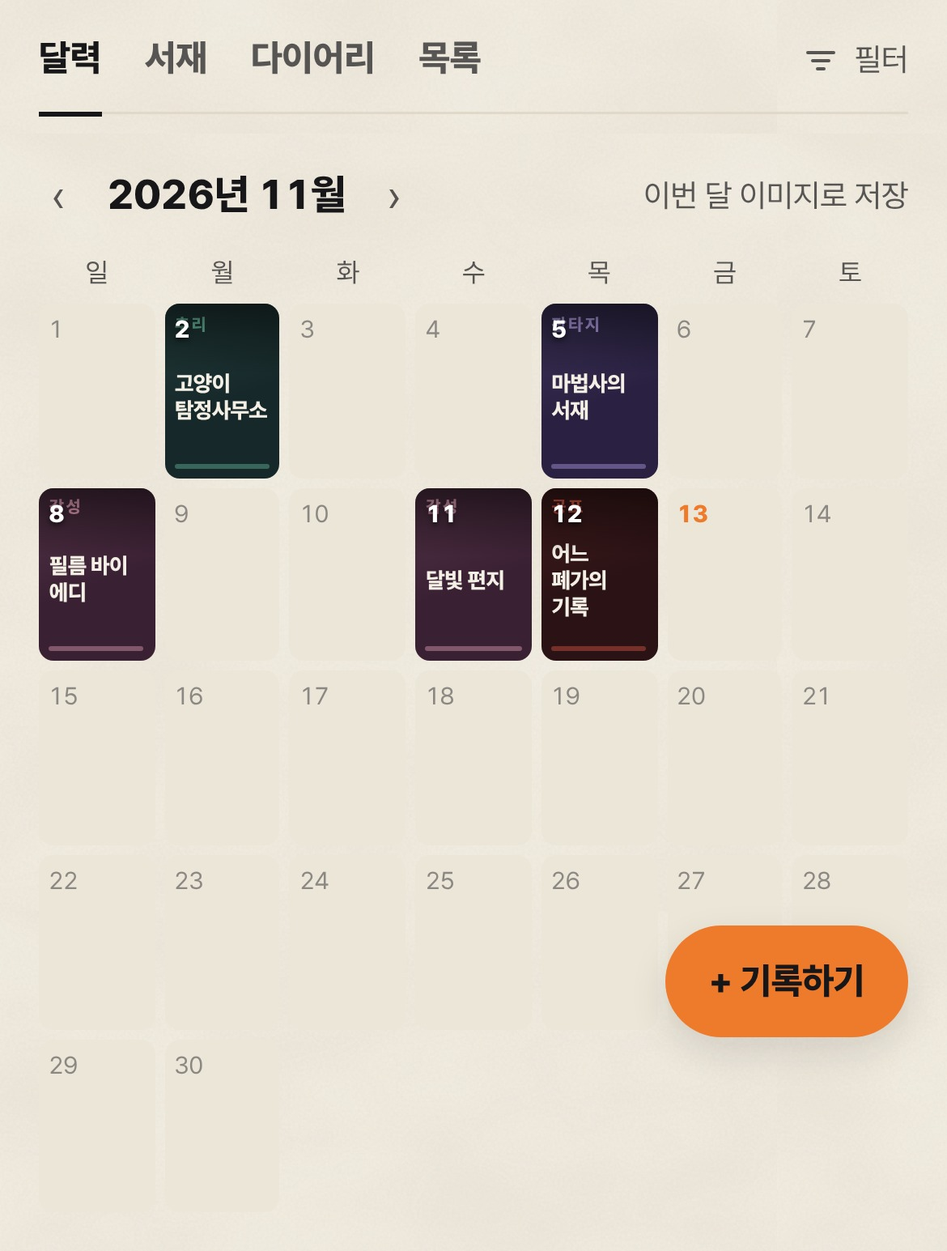
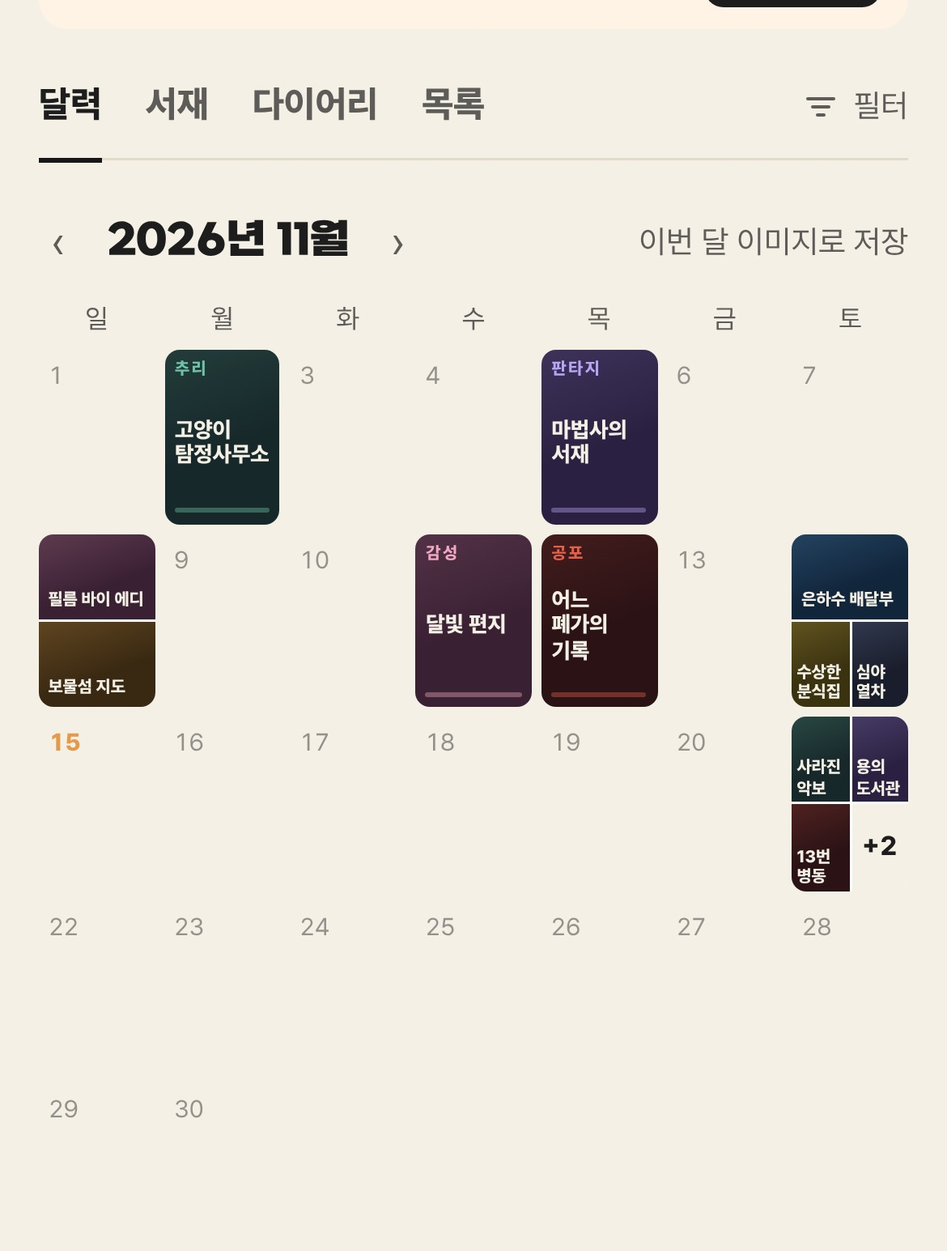
달력 소개 맞추기(다이어리 페이지 예시·월간 이미지 칸 나누기·IG 소개 카드), IG 후킹: 저장 문구·첫 방탈출 체크리스트 캐러셀
Claude-Session: https://claude.ai/code/session_01RCovqCTjag3WJkZFny7UQu

diff --git a/app/diary/page.tsx b/app/diary/page.tsx
@@ -1,5 +1,5 @@
 import type { Metadata } from "next";
-import PosterTile from "@/components/PosterTile";
+import PosterTile, { TONE } from "@/components/PosterTile";
 import Link from "next/link";
 import { SITE_NAME, SITE_URL } from "@/lib/site";
 
@@ -35,7 +35,7 @@ export const metadata: Metadata = {
 };
 
 // 달력 예시 한 주 (실제 사용자 데이터 아님)
-type CalCell = { day: number; genre?: string; name?: string; success?: boolean; more?: number };
+type CalCell = { day: number; genre?: string; name?: string; success?: boolean; also?: { genre: string; name: string }[] };
 const CAL_SAMPLE: CalCell[] = [
   ...[2, 3, 4, 5, 6, 7].map((day) => ({ day })),
   { day: 8, genre: "추리", name: "고양이 탐정 사무소", success: false },
@@ -44,7 +44,7 @@ const CAL_SAMPLE: CalCell[] = [
   ...[16, 17, 18].map((day) => ({ day })),
   { day: 19, genre: "감성", name: "달빛 편지", success: true },
   { day: 20 },
-  { day: 21, genre: "판타지", name: "마법사의 서재", success: true, more: 1 },
+  { day: 21, genre: "판타지", name: "마법사의 서재", success: true, also: [{ genre: "모험", name: "보물섬 지도" }, { genre: "코믹", name: "수상한 분식집" }] },
   { day: 22, genre: "공포", name: "어느 폐가의 기록", success: true },
 ];
 
@@ -114,7 +114,7 @@ const FAQ = [
   },
   {
     q: "달력으로도 볼 수 있나요?",
-    a: "네. 기록하면 다녀온 날짜 칸이 테마 포스터로 채워지는 달력이 기본 화면이에요. 인증샷을 올리면 그 사진으로 채워지고, 하루에 여러 방을 했으면 +2처럼 표시돼요. 날짜를 누르면 그날 기록이 바로 펼쳐져요.",
+    a: "네. 기록하면 다녀온 날짜 칸이 테마 포스터로 채워지는 달력이 기본 화면이에요. 인증샷을 올리면 그 사진으로 채워지고, 하루에 여러 방을 했으면 칸을 나눠서 다 보여 주고, 4방부터는 +1처럼 표시돼요. 날짜를 누르면 그날 기록이 바로 펼쳐져요.",
   },
   {
     q: "몇 번째 방인지 자동으로 세 주나요?",
@@ -204,11 +204,11 @@ export default function DiaryLandingPage() {
         <h2 className="text-xl font-extrabold">📅 달력으로 한눈에</h2>
         <p className="text-sm text-cream/60">
           예시 화면이에요. 다녀온 날짜 칸이 테마 포스터(또는 내 인증샷)로
-          채워져서, 이번 달 얼마나 달렸는지 한눈에 보여요.
+          채워지고, 하루에 여러 방을 한 날은 칸이 나뉘어 담겨요.
         </p>
         <div className="rough mx-auto max-w-sm rounded-2xl border-2 border-edge bg-panel p-3">
           <p className="mb-2 text-center text-sm font-extrabold">
-            11월 <span className="text-xs font-bold text-cream/55">· 6방 · 탈출 5</span>
+            11월 <span className="text-xs font-bold text-cream/55">· 7방 · 탈출 6</span>
           </p>
           <div className="grid grid-cols-7 gap-1.5 text-center text-[11px] font-extrabold">
             {["일", "월", "화", "수", "목", "금", "토"].map((w) => (
@@ -220,14 +220,24 @@ export default function DiaryLandingPage() {
               <div key={c.day} className="flex flex-col gap-1">
                 <span className={c.name ? "text-cream" : "text-cream/35"}>{c.day}</span>
                 {c.name ? (
-                  <span className="relative block aspect-[3/4] overflow-hidden rounded-md shadow-sm ring-1 ring-edge/20">
-                    <PosterTile genre={c.genre ?? "기타"} name={c.name} success={c.success} />
-                    {c.more && (
-                      <span className="absolute bottom-1 right-1 rounded-full bg-panel/90 px-1 text-[9px] font-extrabold leading-3 text-edge">
-                        +{c.more}
-                      </span>
-                    )}
-                  </span>
+                  c.also ? (
+                    // 하루 여러 방: 실제 달력처럼 칸을 나눠 담는다
+                    <span className="grid aspect-[3/4] grid-cols-2 grid-rows-2 gap-px overflow-hidden rounded-md shadow-sm ring-1 ring-edge/20">
+                      {[{ genre: c.genre ?? "기타", name: c.name }, ...c.also].map((t, k) => (
+                        <span
+                          key={t.name}
+                          className={`flex items-end p-[3px] text-left text-[7px] font-extrabold leading-[1.1] text-[#F5F0E6] ${k === 0 ? "col-span-2" : ""}`}
+                          style={{ backgroundColor: (TONE[t.genre] ?? TONE["기타"]).bg }}
+                        >
+                          <span className="line-clamp-2 [word-break:keep-all]">{t.name}</span>
+                        </span>
+                      ))}
+                    </span>
+                  ) : (
+                    <span className="relative block aspect-[3/4] overflow-hidden rounded-md shadow-sm ring-1 ring-edge/20">
+                      <PosterTile genre={c.genre ?? "기타"} name={c.name} success={c.success} />
+                    </span>
+                  )
                 ) : (
                   <span className="block aspect-[3/4]" />
                 )}

diff --git a/tools/ig/templates/im6.html b/tools/ig/templates/im6.html
@@ -17,4 +17,4 @@ body:after{content:"";position:absolute;inset:0;opacity:.16;mix-blend-mode:overl
 .row .p{font-size:24px;font-weight:500;opacity:.75;margin-top:6px;letter-spacing:.02em}
 .row .d{font-size:26px;font-weight:800;margin-top:10px;color:#F2C879}
 .foot{left:80px;right:80px;bottom:66px;display:flex;justify-content:space-between;font-size:21px;opacity:.6;letter-spacing:.05em}
-</style></head><body><div class="a top"><span>BANGTALLOG · PROGRAM</span><span>6 / 6</span></div><div class="a kick">BEFORE THE CURTAIN</div><div class="a ttl" style="font-size:66px">티켓팅,<br><em>장난 아니래요</em></div><div class="a" style="left:80px;right:80px;top:390px"><div class="row" style="padding:16px 0"><div class="n" style="width:60px">01</div><div><div class="t" style="font-size:32px">열리는 시각부터</div><div class="p" style="font-size:22px">곳마다 며칠 전 몇 시에 열리는지 달라요</div></div></div><div class="row" style="padding:16px 0"><div class="n" style="width:60px">02</div><div><div class="t" style="font-size:32px">로그인·결제는 미리</div><div class="p" style="font-size:22px">무통장이면 예약자 = 입금자 이름</div></div></div><div class="row" style="padding:16px 0"><div class="n" style="width:60px">03</div><div><div class="t" style="font-size:32px">날짜 후보는 2~3개</div><div class="p" style="font-size:22px">한 회차에 몇 명만 들어가요</div></div></div><div class="row" style="padding:16px 0"><div class="n" style="width:60px">04</div><div><div class="t" style="font-size:32px">취소표는 수수료 붙기 직전</div><div class="p" style="font-size:22px">그 무렵 예약 페이지를 몇 번 더</div></div></div><div class="row" style="padding:16px 0"><div class="n" style="width:60px">05</div><div><div class="t" style="font-size:32px">10분 일찍</div><div class="p" style="font-size:22px">늦으면 못 들어가는 곳이 많아요</div></div></div></div><div class="a" style="left:80px;right:80px;top:1110px;font-family:M;font-weight:800;font-size:34px;line-height:1.5">곳마다 예약 열리는 시각은 <span style="color:#D9574F">프로필 링크</span>에.<br><span style="font-family:P;font-size:24px;opacity:.75;font-weight:500">다녀온 공연도 방탈로그에 한 줄 · 먼저 써 보고 10초 가입</span></div><div class="a foot"><span>CURTAIN CALL</span><span>bangtallog.com</span></div></body></html>
+</style></head><body><div class="a top"><span>BANGTALLOG · PROGRAM</span><span>6 / 6</span></div><div class="a kick">BEFORE THE CURTAIN</div><div class="a ttl" style="font-size:66px">티켓팅,<br><em>장난 아니래요</em></div><div class="a" style="left:80px;right:80px;top:390px"><div class="row" style="padding:16px 0"><div class="n" style="width:60px">01</div><div><div class="t" style="font-size:32px">열리는 시각부터</div><div class="p" style="font-size:22px">곳마다 며칠 전 몇 시에 열리는지 달라요</div></div></div><div class="row" style="padding:16px 0"><div class="n" style="width:60px">02</div><div><div class="t" style="font-size:32px">로그인·결제는 미리</div><div class="p" style="font-size:22px">무통장이면 예약자 = 입금자 이름</div></div></div><div class="row" style="padding:16px 0"><div class="n" style="width:60px">03</div><div><div class="t" style="font-size:32px">날짜 후보는 2~3개</div><div class="p" style="font-size:22px">한 회차에 몇 명만 들어가요</div></div></div><div class="row" style="padding:16px 0"><div class="n" style="width:60px">04</div><div><div class="t" style="font-size:32px">취소표는 수수료 붙기 직전</div><div class="p" style="font-size:22px">그 무렵 예약 페이지를 몇 번 더</div></div></div><div class="row" style="padding:16px 0"><div class="n" style="width:60px">05</div><div><div class="t" style="font-size:32px">10분 일찍</div><div class="p" style="font-size:22px">늦으면 못 들어가는 곳이 많아요</div></div></div></div><div class="a" style="left:80px;right:80px;top:1110px;font-family:M;font-weight:800;font-size:34px;line-height:1.5">곳마다 예약 열리는 시각은 <span style="color:#D9574F">프로필 링크</span>에.<br><span style="font-family:P;font-size:24px;opacity:.75;font-weight:500">📌 저장해 두고 티켓팅 날 꺼내 보세요 · 먼저 써 보고 10초 가입</span></div><div class="a foot"><span>CURTAIN CALL</span><span>bangtallog.com</span></div></body></html>

diff --git a/tools/ig/templates/ck5.html b/tools/ig/templates/ck5.html
@@ -1,0 +1,31 @@
+<!doctype html><html><head><meta charset="utf-8"><style>
+@font-face{font-family:A;src:url(../../../assets/fonts/SBAggroB.woff)}
+@font-face{font-family:P;src:url(../../../assets/fonts/Pretendard-ExtraBold.woff);font-weight:800}
+@font-face{font-family:P;src:url(../../../assets/fonts/Pretendard-Medium.woff);font-weight:500}
+html,body{margin:0;width:1080px;height:1350px;font-family:P;overflow:hidden;color:#1D1D1D;background:#F5F0E6}
+.dots{position:absolute;inset:0;background-image:radial-gradient(rgba(29,29,29,.06) 1.5px,transparent 1.6px);background-size:28px 28px}
+.top{position:absolute;left:80px;right:80px;top:70px;display:flex;justify-content:space-between;align-items:center}
+.brand{font-family:A;font-size:32px}
+.pg{border:3px solid #1D1D1D;border-radius:999px;background:#FFFCF6;padding:6px 18px;font-weight:800;font-size:24px}
+.kick{position:absolute;left:80px;top:170px;font-weight:800;font-size:30px;color:#C97A28}
+h1{position:absolute;left:76px;right:76px;font-family:A;font-weight:400;margin:0;line-height:1.14}
+.acc{color:#E49A4A;text-shadow:5px 5px 0 #1D1D1D}
+.card{position:absolute;left:80px;right:80px;background:#FFFCF6;border:4px solid #1D1D1D;border-radius:30px;box-shadow:9px 9px 0 #1D1D1D;padding:20px 40px}
+.li{display:flex;gap:26px;align-items:flex-start;padding:26px 0;border-bottom:3px dashed rgba(29,29,29,.15)}
+.li:last-child{border-bottom:0}
+.box{flex:0 0 58px;height:58px;border:4px solid #1D1D1D;border-radius:14px;background:#fff;box-shadow:3px 4px 0 #1D1D1D;margin-top:4px;font-size:40px;line-height:54px;text-align:center;color:#E49A4A;font-weight:800}
+.t{font-weight:800;font-size:42px;line-height:1.3}
+.d{font-weight:500;font-size:29px;line-height:1.45;color:#5A5148;margin-top:6px}
+.foot{position:absolute;left:80px;right:80px;bottom:64px;display:flex;justify-content:space-between;align-items:center}
+.cta{border:4px solid #1D1D1D;border-radius:18px;background:#E49A4A;color:#fff;font-weight:800;font-size:31px;padding:14px 28px;box-shadow:6px 6px 0 #1D1D1D}
+.url{font-family:A;font-size:26px}
+.sticker{position:absolute;border:3px solid #1D1D1D;border-radius:999px;background:#FFFCF6;padding:10px 24px;font-weight:800;font-size:28px;box-shadow:4px 4px 0 #1D1D1D}
+</style></head><body><div class="dots"></div>
+<div class="top"><span class="brand">방탈로그</span><span class="pg">5 / 5</span></div><div class="kick">📌 저장해 두기</div>
+<h1 style="top:230px;font-size:92px">나와서 할 일,<br><span class="acc">딱 하나</span></h1>
+<div style="position:absolute;left:80px;right:80px;top:500px;font-weight:500;font-size:36px;line-height:1.55;color:#5A5148">스포는 꾹 참고, <b style="color:#1D1D1D;font-weight:800">그날 한 줄</b>만 적어 두세요.<br>며칠 지나면 남은 시간도, 누구랑 갔는지도 가물가물해요.</div>
+<div class="card" style="top:760px;padding:34px 40px;transform:rotate(1.2deg)">
+<div class="t" style="font-size:38px">📒 다녀온 방 기록하면</div>
+<div class="d" style="font-size:31px;margin-top:14px">· 달력이 그날 방으로 채워지고<br>· 몇 번째 방인지 자동으로 세고<br>· 리뷰 시트 한 장으로 뽑을 수 있어요</div></div>
+<img src="../../../public/mascot.png" style="position:absolute;right:70px;top:580px;width:200px;transform:rotate(8deg)">
+<div class="foot"><span class="cta">먼저 써 보고 10초 가입 → 프로필 링크</span><span class="url">bangtallog.com</span></div></body></html>

diff --git a/tools/ig/templates/ck1.html b/tools/ig/templates/ck1.html
@@ -1,0 +1,32 @@
+<!doctype html><html><head><meta charset="utf-8"><style>
+@font-face{font-family:A;src:url(../../../assets/fonts/SBAggroB.woff)}
+@font-face{font-family:P;src:url(../../../assets/fonts/Pretendard-ExtraBold.woff);font-weight:800}
+@font-face{font-family:P;src:url(../../../assets/fonts/Pretendard-Medium.woff);font-weight:500}
+html,body{margin:0;width:1080px;height:1350px;font-family:P;overflow:hidden;color:#1D1D1D;background:#F5F0E6}
+.dots{position:absolute;inset:0;background-image:radial-gradient(rgba(29,29,29,.06) 1.5px,transparent 1.6px);background-size:28px 28px}
+.top{position:absolute;left:80px;right:80px;top:70px;display:flex;justify-content:space-between;align-items:center}
+.brand{font-family:A;font-size:32px}
+.pg{border:3px solid #1D1D1D;border-radius:999px;background:#FFFCF6;padding:6px 18px;font-weight:800;font-size:24px}
+.kick{position:absolute;left:80px;top:170px;font-weight:800;font-size:30px;color:#C97A28}
+h1{position:absolute;left:76px;right:76px;font-family:A;font-weight:400;margin:0;line-height:1.14}
+.acc{color:#E49A4A;text-shadow:5px 5px 0 #1D1D1D}
+.card{position:absolute;left:80px;right:80px;background:#FFFCF6;border:4px solid #1D1D1D;border-radius:30px;box-shadow:9px 9px 0 #1D1D1D;padding:20px 40px}
+.li{display:flex;gap:26px;align-items:flex-start;padding:26px 0;border-bottom:3px dashed rgba(29,29,29,.15)}
+.li:last-child{border-bottom:0}
+.box{flex:0 0 58px;height:58px;border:4px solid #1D1D1D;border-radius:14px;background:#fff;box-shadow:3px 4px 0 #1D1D1D;margin-top:4px;font-size:40px;line-height:54px;text-align:center;color:#E49A4A;font-weight:800}
+.t{font-weight:800;font-size:42px;line-height:1.3}
+.d{font-weight:500;font-size:29px;line-height:1.45;color:#5A5148;margin-top:6px}
+.foot{position:absolute;left:80px;right:80px;bottom:64px;display:flex;justify-content:space-between;align-items:center}
+.cta{border:4px solid #1D1D1D;border-radius:18px;background:#E49A4A;color:#fff;font-weight:800;font-size:31px;padding:14px 28px;box-shadow:6px 6px 0 #1D1D1D}
+.url{font-family:A;font-size:26px}
+.sticker{position:absolute;border:3px solid #1D1D1D;border-radius:999px;background:#FFFCF6;padding:10px 24px;font-weight:800;font-size:28px;box-shadow:4px 4px 0 #1D1D1D}
+</style></head><body><div class="dots"></div>
+<div class="top"><span class="brand">방탈로그</span><span class="pg">1 / 5</span></div><div class="kick">☑ 첫 방탈출 체크리스트</div>
+<h1 style="top:230px;font-size:112px">방탈출,<br>처음이에요?</h1>
+<div style="position:absolute;left:80px;right:80px;top:520px;font-weight:500;font-size:36px;line-height:1.5;color:#5A5148">예약할 때부터 나올 때까지,<br>가기 전에 딱 <b style="color:#1D1D1D;font-weight:800">10가지</b>만 확인하고 가요.</div>
+<div class="card" style="top:720px;padding:34px 40px;transform:rotate(-1.5deg)">
+<div class="li" style="padding:14px 0"><div class="box">✓</div><div class="t">예약할 때 4가지</div></div>
+<div class="li" style="padding:14px 0"><div class="box">✓</div><div class="t">가는 날 3가지</div></div>
+<div class="li" style="padding:14px 0"><div class="box"></div><div class="t">방 안에서 3가지</div></div></div>
+<img src="../../../public/mascot.png" style="position:absolute;right:60px;top:560px;width:230px;transform:rotate(9deg)">
+<div class="foot"><span class="sticker" style="position:static">옆으로 넘겨요 →</span><span class="url">bangtallog.com</span></div></body></html>

diff --git a/lib/month-card.ts b/lib/month-card.ts
@@ -156,6 +156,34 @@ function card(
   c.stroke();
 }
 
+// 나뉜 칸용 작은 표지: 장르 색 바탕에 테마 이름만(자리가 좁다)
+function miniTile(c: CanvasRenderingContext2D, r: EscapeRecord, x: number, y: number, w: number, h: number) {
+  const t = TONE[r.genre] ?? TONE["기타"];
+  c.save();
+  c.beginPath();
+  c.rect(x, y, w, h);
+  c.clip();
+  c.fillStyle = t.bg;
+  c.fillRect(x, y, w, h);
+  const g = c.createLinearGradient(x, y, x + w * 0.6, y + h);
+  g.addColorStop(0, `${t.accent}33`);
+  g.addColorStop(1, `${t.accent}00`);
+  c.fillStyle = g;
+  c.fillRect(x, y, w, h);
+  const p = 7;
+  const size = Math.max(13, Math.min(19, Math.round(w * 0.17)));
+  const lh = Math.round(size * 1.18);
+  c.font = `800 ${size}px ${BODY}`;
+  c.fillStyle = PAPER;
+  c.textAlign = "left";
+  c.textBaseline = "top";
+  const maxLines = Math.max(1, Math.min(2, Math.floor((h - p * 2) / lh)));
+  const lines = wrapWords((s) => c.measureText(s).width, r.themeName || "제목 없음", w - p * 2, maxLines);
+  lines.forEach((l, i) => c.fillText(l, x + p, y + h - p - (lines.length - i) * lh));
+  c.textBaseline = "alphabetic";
+  c.restore();
+}
+
 // 미니 포스터(PosterTile 과 같은 모양): 장르 색 바탕, 위에 장르, 가운데 테마 이름, 아래 주황 줄 + 탈출 점
 function posterTile(c: CanvasRenderingContext2D, r: EscapeRecord, x: number, y: number, w: number, h: number) {
   const t = TONE[r.genre] ?? TONE["기타"];
@@ -327,19 +355,40 @@ export async function drawMonthCard(canvas: HTMLCanvasElement, month: string, re
         c.fill();
         return;
       }
-      posterTile(c, cell.records[0], x, py, colW, posterH);
-      if (cell.records.length > 1) {
-        const label = `+${cell.records.length - 1}`;
-        c.font = `800 22px ${BODY}`;
-        const bw = c.measureText(label).width + 20;
-        const bx = x + colW - bw + 8;
-        const by = py + posterH - 22;
-        card(c, bx, by, bw, 34, 17, ORANGE, { line: 3 });
+      // 하루 여러 방이면 달력 화면처럼 칸을 나눈다: 2=위아래, 3=위 1+아래 2, 4방부터는 3장 + "+N"
+      const list = cell.records;
+      if (list.length === 1) {
+        posterTile(c, list[0], x, py, colW, posterH);
+        return;
+      }
+      const g = 4;
+      const hh = (posterH - g) / 2;
+      const hw = (colW - g) / 2;
+      c.save();
+      c.beginPath();
+      c.roundRect(x, py, colW, posterH, Math.round(colW * 0.1));
+      c.clip();
+      if (list.length === 2) {
+        miniTile(c, list[0], x, py, colW, hh);
+        miniTile(c, list[1], x, py + hh + g, colW, hh);
+      } else if (list.length === 3) {
+        miniTile(c, list[0], x, py, colW, hh);
+        miniTile(c, list[1], x, py + hh + g, hw, hh);
+        miniTile(c, list[2], x + hw + g, py + hh + g, hw, hh);
+      } else {
+        miniTile(c, list[0], x, py, hw, hh);
+        miniTile(c, list[1], x + hw + g, py, hw, hh);
+        miniTile(c, list[2], x, py + hh + g, hw, hh);
+        c.fillStyle = ORANGE;
+        c.fillRect(x + hw + g, py + hh + g, hw, hh);
         c.fillStyle = INK;
+        c.textAlign = "center";
         c.textBaseline = "middle";
-        c.fillText(label, bx + bw / 2, by + 18);
+        c.font = `800 ${Math.round(hw * 0.42)}px ${BODY}`;
+        c.fillText(`+${list.length - 3}`, x + hw + g + hw / 2, py + hh + g + hh / 2 + 1);
         c.textBaseline = "alphabetic";
       }
+      c.restore();
     });
   });
 

diff --git a/tools/ig/templates/ck2.html b/tools/ig/templates/ck2.html
@@ -1,0 +1,24 @@
+<!doctype html><html><head><meta charset="utf-8"><style>
+@font-face{font-family:A;src:url(../../../assets/fonts/SBAggroB.woff)}
+@font-face{font-family:P;src:url(../../../assets/fonts/Pretendard-ExtraBold.woff);font-weight:800}
+@font-face{font-family:P;src:url(../../../assets/fonts/Pretendard-Medium.woff);font-weight:500}
+html,body{margin:0;width:1080px;height:1350px;font-family:P;overflow:hidden;color:#1D1D1D;background:#F5F0E6}
+.dots{position:absolute;inset:0;background-image:radial-gradient(rgba(29,29,29,.06) 1.5px,transparent 1.6px);background-size:28px 28px}
+.top{position:absolute;left:80px;right:80px;top:70px;display:flex;justify-content:space-between;align-items:center}
+.brand{font-family:A;font-size:32px}
+.pg{border:3px solid #1D1D1D;border-radius:999px;background:#FFFCF6;padding:6px 18px;font-weight:800;font-size:24px}
+.kick{position:absolute;left:80px;top:170px;font-weight:800;font-size:30px;color:#C97A28}
+h1{position:absolute;left:76px;right:76px;font-family:A;font-weight:400;margin:0;line-height:1.14}
+.acc{color:#E49A4A;text-shadow:5px 5px 0 #1D1D1D}
+.card{position:absolute;left:80px;right:80px;background:#FFFCF6;border:4px solid #1D1D1D;border-radius:30px;box-shadow:9px 9px 0 #1D1D1D;padding:20px 40px}
+.li{display:flex;gap:26px;align-items:flex-start;padding:27px 0;border-bottom:3px dashed rgba(29,29,29,.15)}
+.li:last-child{border-bottom:0}
+.box{flex:0 0 66px;height:66px;border:4px solid #1D1D1D;border-radius:14px;background:#fff;box-shadow:3px 4px 0 #1D1D1D;margin-top:4px;font-size:40px;line-height:54px;text-align:center;color:#E49A4A;font-weight:800}
+.t{font-weight:800;font-size:52px;line-height:1.3}
+.d{font-weight:500;font-size:34px;line-height:1.45;color:#5A5148;margin-top:6px}
+.foot{position:absolute;left:80px;right:80px;bottom:64px;display:flex;justify-content:space-between;align-items:center}
+.cta{border:4px solid #1D1D1D;border-radius:18px;background:#E49A4A;color:#fff;font-weight:800;font-size:31px;padding:14px 28px;box-shadow:6px 6px 0 #1D1D1D}
+.url{font-family:A;font-size:26px}
+.sticker{position:absolute;border:3px solid #1D1D1D;border-radius:999px;background:#FFFCF6;padding:10px 24px;font-weight:800;font-size:28px;box-shadow:4px 4px 0 #1D1D1D}
+</style></head><body><div class="dots"></div>
+<div class="top"><span class="brand">방탈로그</span><span class="pg">2 / 5</span></div><div class="kick">STEP 1 · 예약할 때</div><h1 style="top:220px;font-size:80px"><span class="acc">4가지</span>만 보고 예약</h1><div class="card" style="top:380px"><div class="li"><div class="box"></div><div><div class="t">권장 인원</div><div class="d">예약 페이지에 적힌 인원에 맞는 테마로 골라요</div></div></div><div class="li"><div class="box"></div><div><div class="t">공포도·난이도</div><div class="d">처음이면 쉽고 안 무서운 방부터가 편해요</div></div></div><div class="li"><div class="box"></div><div><div class="t">취소·변경 규정</div><div class="d">매장마다 달라요. 예약 전에 한 번 읽어 두기</div></div></div><div class="li"><div class="box"></div><div><div class="t">도착 시각 안내</div><div class="d">몇 분 전까지 오라는지 예약 안내에서 확인</div></div></div></div><div class="foot"><span class="sticker" style="position:static">📌 저장해 두고 가기 전에 꺼내 보기</span><span class="url">bangtallog.com</span></div></body></html>

diff --git a/tools/ig/templates/ck4.html b/tools/ig/templates/ck4.html
@@ -1,0 +1,24 @@
+<!doctype html><html><head><meta charset="utf-8"><style>
+@font-face{font-family:A;src:url(../../../assets/fonts/SBAggroB.woff)}
+@font-face{font-family:P;src:url(../../../assets/fonts/Pretendard-ExtraBold.woff);font-weight:800}
+@font-face{font-family:P;src:url(../../../assets/fonts/Pretendard-Medium.woff);font-weight:500}
+html,body{margin:0;width:1080px;height:1350px;font-family:P;overflow:hidden;color:#1D1D1D;background:#F5F0E6}
+.dots{position:absolute;inset:0;background-image:radial-gradient(rgba(29,29,29,.06) 1.5px,transparent 1.6px);background-size:28px 28px}
+.top{position:absolute;left:80px;right:80px;top:70px;display:flex;justify-content:space-between;align-items:center}
+.brand{font-family:A;font-size:32px}
+.pg{border:3px solid #1D1D1D;border-radius:999px;background:#FFFCF6;padding:6px 18px;font-weight:800;font-size:24px}
+.kick{position:absolute;left:80px;top:170px;font-weight:800;font-size:30px;color:#C97A28}
+h1{position:absolute;left:76px;right:76px;font-family:A;font-weight:400;margin:0;line-height:1.14}
+.acc{color:#E49A4A;text-shadow:5px 5px 0 #1D1D1D}
+.card{position:absolute;left:80px;right:80px;background:#FFFCF6;border:4px solid #1D1D1D;border-radius:30px;box-shadow:9px 9px 0 #1D1D1D;padding:20px 40px}
+.li{display:flex;gap:26px;align-items:flex-start;padding:34px 0;border-bottom:3px dashed rgba(29,29,29,.15)}
+.li:last-child{border-bottom:0}
+.box{flex:0 0 66px;height:66px;border:4px solid #1D1D1D;border-radius:14px;background:#fff;box-shadow:3px 4px 0 #1D1D1D;margin-top:4px;font-size:40px;line-height:54px;text-align:center;color:#E49A4A;font-weight:800}
+.t{font-weight:800;font-size:52px;line-height:1.3}
+.d{font-weight:500;font-size:34px;line-height:1.45;color:#5A5148;margin-top:6px}
+.foot{position:absolute;left:80px;right:80px;bottom:64px;display:flex;justify-content:space-between;align-items:center}
+.cta{border:4px solid #1D1D1D;border-radius:18px;background:#E49A4A;color:#fff;font-weight:800;font-size:31px;padding:14px 28px;box-shadow:6px 6px 0 #1D1D1D}
+.url{font-family:A;font-size:26px}
+.sticker{position:absolute;border:3px solid #1D1D1D;border-radius:999px;background:#FFFCF6;padding:10px 24px;font-weight:800;font-size:28px;box-shadow:4px 4px 0 #1D1D1D}
+</style></head><body><div class="dots"></div>
+<div class="top"><span class="brand">방탈로그</span><span class="pg">4 / 5</span></div><div class="kick">STEP 3 · 방 안에서</div><h1 style="top:220px;font-size:80px">이것만 기억, <span class="acc">3가지</span></h1><div class="card" style="top:380px"><div class="li"><div class="box"></div><div><div class="t">힌트는 아끼지 말기</div><div class="d">막히면 쓰는 게 훨씬 재밌어요. 처음이면 더더욱</div></div></div><div class="li"><div class="box"></div><div><div class="t">찾은 건 소리 내서</div><div class="d">“여기 숫자 있어!” 서로 말해 줘야 풀려요</div></div></div><div class="li"><div class="box"></div><div><div class="t">힘으로 열지 않기</div><div class="d">안 열리면 아직 풀 차례가 아닌 거예요</div></div></div></div><div class="foot"><span class="sticker" style="position:static">📌 저장해 두고 가기 전에 꺼내 보기</span><span class="url">bangtallog.com</span></div></body></html>

diff --git a/tools/ig/templates/ck3.html b/tools/ig/templates/ck3.html
@@ -1,0 +1,24 @@
+<!doctype html><html><head><meta charset="utf-8"><style>
+@font-face{font-family:A;src:url(../../../assets/fonts/SBAggroB.woff)}
+@font-face{font-family:P;src:url(../../../assets/fonts/Pretendard-ExtraBold.woff);font-weight:800}
+@font-face{font-family:P;src:url(../../../assets/fonts/Pretendard-Medium.woff);font-weight:500}
+html,body{margin:0;width:1080px;height:1350px;font-family:P;overflow:hidden;color:#1D1D1D;background:#F5F0E6}
+.dots{position:absolute;inset:0;background-image:radial-gradient(rgba(29,29,29,.06) 1.5px,transparent 1.6px);background-size:28px 28px}
+.top{position:absolute;left:80px;right:80px;top:70px;display:flex;justify-content:space-between;align-items:center}
+.brand{font-family:A;font-size:32px}
+.pg{border:3px solid #1D1D1D;border-radius:999px;background:#FFFCF6;padding:6px 18px;font-weight:800;font-size:24px}
+.kick{position:absolute;left:80px;top:170px;font-weight:800;font-size:30px;color:#C97A28}
+h1{position:absolute;left:76px;right:76px;font-family:A;font-weight:400;margin:0;line-height:1.14}
+.acc{color:#E49A4A;text-shadow:5px 5px 0 #1D1D1D}
+.card{position:absolute;left:80px;right:80px;background:#FFFCF6;border:4px solid #1D1D1D;border-radius:30px;box-shadow:9px 9px 0 #1D1D1D;padding:20px 40px}
+.li{display:flex;gap:26px;align-items:flex-start;padding:34px 0;border-bottom:3px dashed rgba(29,29,29,.15)}
+.li:last-child{border-bottom:0}
+.box{flex:0 0 66px;height:66px;border:4px solid #1D1D1D;border-radius:14px;background:#fff;box-shadow:3px 4px 0 #1D1D1D;margin-top:4px;font-size:40px;line-height:54px;text-align:center;color:#E49A4A;font-weight:800}
+.t{font-weight:800;font-size:52px;line-height:1.3}
+.d{font-weight:500;font-size:34px;line-height:1.45;color:#5A5148;margin-top:6px}
+.foot{position:absolute;left:80px;right:80px;bottom:64px;display:flex;justify-content:space-between;align-items:center}
+.cta{border:4px solid #1D1D1D;border-radius:18px;background:#E49A4A;color:#fff;font-weight:800;font-size:31px;padding:14px 28px;box-shadow:6px 6px 0 #1D1D1D}
+.url{font-family:A;font-size:26px}
+.sticker{position:absolute;border:3px solid #1D1D1D;border-radius:999px;background:#FFFCF6;padding:10px 24px;font-weight:800;font-size:28px;box-shadow:4px 4px 0 #1D1D1D}
+</style></head><body><div class="dots"></div>
+<div class="top"><span class="brand">방탈로그</span><span class="pg">3 / 5</span></div><div class="kick">STEP 2 · 가는 날</div><h1 style="top:220px;font-size:80px">나서기 전 <span class="acc">3가지</span></h1><div class="card" style="top:380px"><div class="li"><div class="box"></div><div><div class="t">편한 옷과 신발</div><div class="d">쪼그려 앉거나 기어가는 구간이 있을 수 있어요</div></div></div><div class="li"><div class="box"></div><div><div class="t">짐은 가볍게</div><div class="d">소지품은 보통 방 밖 보관함에 두고 들어가요</div></div></div><div class="li"><div class="box"></div><div><div class="t">화장실은 미리</div><div class="d">시작하면 중간에 나오기 어려워요</div></div></div></div><div class="foot"><span class="sticker" style="position:static">📌 저장해 두고 가기 전에 꺼내 보기</span><span class="url">bangtallog.com</span></div></body></html>

diff --git a/tools/ig/templates/in3.html b/tools/ig/templates/in3.html
@@ -26,8 +26,8 @@ h1{font-family:A;font-weight:400;margin:0;line-height:1.12}
 <div class="kick">📅 달력 다이어리</div>
 <h1 style="position:absolute;left:76px;top:220px;font-size:92px">이번 달 얼마나<br><span class="acc">달렸는지</span> 한눈에</h1>
 <div class="sub" style="top:450px">다녀온 날짜 칸이 테마 포스터(또는 내 인증샷)로 채워져요.</div>
-<div class="shot" style="left:80px;right:80px;top:600px"><img src="../assets/diary-0.png" style="margin-top:-210px"></div>
-<img class="mascot" src="../../../public/mascot.png" style="right:90px;top:960px;width:220px;transform:rotate(10deg)">
-<div class="sticker" style="left:100px;top:1010px;transform:rotate(-3deg)">이번 달 4방 · 탈출 3 🔥</div>
+<div class="shot" style="left:80px;right:80px;top:560px;bottom:170px"><img src="../assets/diary-0.png" style="margin-top:-210px"></div>
+<img class="mascot" src="../../../public/mascot.png" style="right:70px;top:170px;width:210px;transform:rotate(10deg)">
+<div class="sticker" style="left:110px;top:1100px;transform:rotate(-3deg)">하루 3방도 한 칸에 🔥</div>
 
 <div class="foot"><span class="cta">먼저 써 보고 10초 가입 → 프로필 링크</span><span class="url">bangtallog.com</span></div></body></html>

diff --git a/tools/ig/templates/im1.html b/tools/ig/templates/im1.html
@@ -20,5 +20,5 @@ body:after{content:"";position:absolute;inset:0;opacity:.16;mix-blend-mode:overl
 </style></head><body><img class="a" src="../assets/imm-stage.jpg" style="left:0;top:0;width:1080px;height:1350px">
 <div class="a" style="left:0;right:0;top:66px;text-align:center;font-size:22px;letter-spacing:.5em;color:#E9B3AE;font-weight:800">NOW PLAYING · IMMERSIVE</div>
 <div class="a" style="left:0;right:0;top:112px;text-align:center;font-family:M;font-weight:800;font-size:92px;line-height:1.12;letter-spacing:-.03em;color:#F2EADB">자물쇠 대신,<br>배우가 있는 방</div>
-<div class="a" style="left:0;right:0;bottom:24px;text-align:center;font-size:20px;letter-spacing:.3em;color:#EDE6DA;opacity:.8">관객석은 비워 두세요 · 옆으로 →</div>
+<div class="a" style="left:0;right:0;bottom:24px;text-align:center;font-size:20px;letter-spacing:.3em;color:#EDE6DA;opacity:.8">앉아서만 보기 심심했다면? · 옆으로 →</div>
 </body></html>

diff --git a/tools/ig/templates/diary3.html b/tools/ig/templates/diary3.html
@@ -31,7 +31,7 @@ h1 em{font-style:normal;color:#EE7A2B}
 <div class="wig" style="left:72px;top:352px;width:230px"></div>
 <p class="sub" style="top:386px">한 달을 이미지 한 장으로 저장해서 자랑할 수 있어요.</p>
 <div class="phone" style="top:500px;height:900px;transform:rotate(2.5deg)"><img src="../assets/d-cal.jpg"></div><div class="fade"></div>
-<span class="stk o" style="left:60px;top:476px;transform:rotate(-8deg)">이번 달 5방</span>
+<span class="stk o" style="left:60px;top:476px;transform:rotate(-8deg)">이번 달 14방</span>
 <span class="hand" style="left:300px;top:1170px;transform:rotate(-4deg)">주말마다 출근 도장 쾅!</span>
 <div class="foot"><span class="note">화면 속 기록은 예시예요</span><span>bangtallog.com</span></div>
 </body></html>

diff --git a/tools/ig/pack.py b/tools/ig/pack.py
@@ -88,6 +88,7 @@ POSTS = [
     "dir": "02_11-15_19시_피드_이머시브_배우가있는방",
     "pages": [f"{T}/im{i}.html" for i in range(1, 7)], "size": FEED,
     "caption": """객석에서 일어나 무대로 올라가 본 적 있어요? 🎭
+📌 저장해 두면 티켓팅 날 바로 꺼내 볼 수 있어요.
 
 객석에 앉아서 보는 대신, 배우가 있는 이야기 안으로 직접 들어가는 '이머시브'.
 공식 소개에서 이머시브·체험형이라고 밝힌 곳만 모았어요.
@@ -168,6 +169,7 @@ POSTS = [
     "dir": "14_아무때나_피드_부산방탈출모음",
     "pages": [f"{T}/bs{i}.html" for i in range(1, 7)], "size": FEED,
     "caption": """부산 방탈출, 어데 갈끼고? 🌊
+📌 저장해 뒀다가 부산 갈 때 꺼내 보이소.
 
 바다 보고 방탈출까지. 서면·해운대 일대에서 골라 봤다 아이가.
 
@@ -199,6 +201,7 @@ POSTS = [
     "dir": "16_아무때나_피드_리뷰시트_새기능",
     "pages": [f"{T}/sheet-intro1.html", f"{T}/myrec-sheet-jjan.html", f"{T}/sheet-intro3.html"], "size": FEED,
     "caption": """방탈출 리뷰, 이제 꾸미지 말고 그냥 뽑으세요 🧾
+📌 저장해 두고 다음 방탈출 다녀온 날 써 보세요.
 
 다녀온 방을 기록해 두면 버튼 하나로 '방탈출 리뷰' 시트가 나와요.
 포스터 · 탈출 결과 · 인원/남은 시간/힌트 · 체감 난이도 · 공포도 · 평점 · 한줄 후기까지 한 장에.
@@ -211,6 +214,25 @@ POSTS = [
 #방탈출리뷰 #방탈출후기양식 #방탈출기록 #방탈출다이어리 #리뷰양식 #후기양식 #기록스타그램 #넥스트에디션 #방탈출 #방탈출카페 #방탈출추천 #방탈출후기 #방탈출스타그램 #방탈러 #방린이 #방탈출테마 #방탈출데이트 #실내데이트 #이색데이트 #데이트코스 #주말에뭐하지 #방탈로그""",
     "how": """1. [+] → [게시물] → 1~3.jpg 순서대로 → 캡션.txt 붙여 넣기 → [공유]
 2. 올린 뒤 스토리에 공유하고 '나도 뽑아 보기' 링크 스티커 https://bangtallog.com/new?utm_source=instagram&utm_medium=story&utm_campaign=sheet""",
+  },
+  {
+    "dir": "18_아무때나_피드_첫방탈출_체크리스트",
+    "pages": [f"{T}/ck{i}.html" for i in range(1, 6)], "size": FEED,
+    "caption": """방탈출 처음이에요? 가기 전에 이 10가지만 ☑
+📌 저장해 두고 예약하는 날 꺼내 보세요.
+
+[예약할 때] 권장 인원 · 공포도/난이도 · 취소·변경 규정 · 도착 시각 안내
+[가는 날] 편한 옷과 신발 · 짐은 가볍게 · 화장실은 미리
+[방 안에서] 힌트 아끼지 말기 · 찾은 건 소리 내서 · 힘으로 열지 않기
+
+세부 규정(취소·도착 시각·보관함)은 매장마다 달라요. 예약 페이지 안내가 기준이에요.
+첫 방탈출 같이 갈 친구 태그해 주세요 👻
+
+다녀온 방은 방탈로그에 한 줄 → 먼저 써 보고 10초 가입 · 프로필 링크
+
+#방탈출 #방탈출초보 #방탈출입문 #첫방탈출 #방탈출꿀팁 #방탈출팁 #방탈출체크리스트 #방탈출카페 #방탈출추천 #방탈출데이트 #방린이 #방탈출예약 #데이트코스 #실내데이트 #이색데이트 #친구랑놀기 #주말에뭐하지 #놀거리추천 #방탈출기록 #방탈출다이어리 #방탈로그""",
+    "how": """1. [+] → [게시물] → 1~5.jpg 순서대로 → 캡션.txt 붙여 넣기 → [공유]
+2. 올린 뒤 스토리에 공유하면 좋아요(매장 정보가 없어서 언제 올려도 돼요)""",
   },
   {
     "dir": "17_아무때나_스토리_수원모음",
@@ -261,6 +283,7 @@ EVENT 4 티켓투이스케이프 — 수험생 1명만 같이 와도 팀 전원 
     "dir": "08b_11-20_19시_피드_대구방탈출모음",
     "pages": [f"{T}/dg{i}.html" for i in range(1, 7)], "size": FEED,
     "caption": """대구 방탈출, 어데 갈래? 🥵
+📌 저장해 뒀다가 대구 갈 때 꺼내 보이소.
 
 대프리카 더위 피해서 들어갈 방, 동성로 일대에서 골라 봤다 아이가.
 
